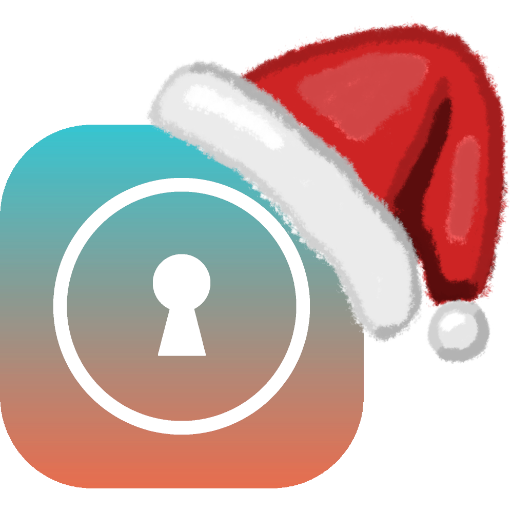
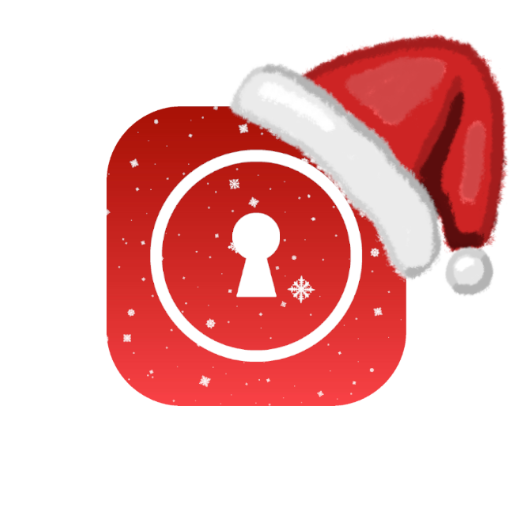
Nuevas festividades agregadas

diff --git a/src/renderer/homeRenderer.js b/src/renderer/homeRenderer.js
@@ -915,11 +915,40 @@ document.addEventListener("DOMContentLoaded", async () => {
     function checkHollydays() {
         const today = new Date();
         const day = today.getDate();
-        const month = today.getMonth() + 1; // Los meses van de 0 a 11
+        const month = today.getMonth() + 1;
 
-        // Icono navideño todo el mes de diciembre
-        if (month === 12) {
-            document.getElementById('app-icon').src = '../assets/ico/sanctuary-christmas.png';
+        // Icono de año nuevo el 1 de enero
+        if (day === 1 && month === 1) {
+            document.getElementById('hollydays-background').style.backgroundImage = 'url("../assets/ico/new-year-bg.png")';
+        }
+
+        // Icono del día del medio ambiente el 5 de junio
+        if (day === 5 && month === 6) {
+            document.getElementById('app-icon').src = '../assets/ico/sanctuary-earth.png';
+        }
+
+        // Icono de la independencia de México el 15 y 16 de septiembre
+        if (day === 15 || day === 16 && month === 9) {
+            document.getElementById('hollydays-background').style.backgroundImage = 'url("../assets/ico/mexican-independence-bg.png")';
+            document.getElementById('app-icon').src = '../assets/ico/sanctuary-mexico.png';
+        }
+
+        // Icono de halloween el 31 de octubre
+        if (day === 31 && month === 10) {
+            document.getElementById('hollydays-background').style.backgroundImage = 'url("../assets/ico/halloween-bg.png")';
+            document.getElementById('app-icon').src = '../assets/ico/sanctuary-purple.png';
+        }
+
+        // Icono de día de los muertos el 1 y 2 de noviembre
+        if (day === 1 || day === 2 && month === 11) {
+            document.getElementById('hollydays-background').style.backgroundImage = 'url("../assets/ico/day-of-the-dead-bg.png")';
+            document.getElementById('app-icon').src = '../assets/ico/sanctuary-purple-pink.png';
+        }
+
+        // Icono navideño desde el 20 de diciembre hasta el 31 de diciembre
+        if (month === 12 && day >= 20 && day <= 31) {
+            document.getElementById('hollydays-background').style.backgroundImage = 'url("../assets/ico/christmas-bg.png")';
+            document.getElementById('app-icon').src = '../assets/ico/sanctuary-christmas-snow.png';
         }
     }
 

diff --git a/src/renderer/components/modalAbout.js b/src/renderer/components/modalAbout.js
@@ -10,6 +10,9 @@ export function showAboutModal() {
         // Constantes y variables auxiliares
         const translations = await window.sanctuaryAPI.getTranslations('about');
         const constants = await window.sanctuaryAPI.getConstants();
+        const today = new Date();
+        const day = today.getDate();
+        const month = today.getMonth() + 1;
 
         // Elementos HTML ya existentes que se usarán
         const modal = document.getElementById('modal');
@@ -22,6 +25,7 @@ export function showAboutModal() {
         modalBody.innerHTML = await getModalHTML(translations, constants);
 
         // Elementos HTML insertados en el esqueleto
+        const appIcon = document.getElementById('app-icon-about');
         const myLinkBtn = document.getElementById('my-link-btn');
         const iconsLinkBtn = document.getElementById('icons-link-btn');
         const illustrationsLinkBtn = document.getElementById('illustrations-link-btn');
@@ -30,6 +34,30 @@ export function showAboutModal() {
         // Establecer valores iniciales
         modalContent.style.width = '460px';
         modalTitle.textContent = replaceKeysInText(translations['title'], { 'appName': constants.about.appName });
+
+        // Easter egg
+        // Icono del día del medio ambiente el 5 de junio
+        if (day === 5 && month === 6) {
+            appIcon.src = '../assets/ico/sanctuary-earth.png';
+        }
+        // Icono del día de independencia de México el 15 y 16 de septiembre
+        if (day === 15 || day === 16 && month === 9) {
+            appIcon.src = '../assets/ico/sanctuary-mexico.png';
+        }
+        // Icono de halloween el 31 de octubre
+        if (day === 31 && month === 10) {
+            appIcon.src = '../assets/ico/sanctuary-halloween.png';
+        }
+        // Icono del día de muertos el 1 y 2 de noviembre
+        if (day === 1 || day === 2 && month === 11) {
+            appIcon.src = '../assets/ico/sanctuary-purple-pink.png';
+        }
+        // Icono de navidad desde el 20 de diciembre hasta el 31 de diciembre
+        if (month === 12 && day >= 20 && day <= 31) {
+            appIcon.src = '../assets/ico/sanctuary-christmas.png';
+        }
+
+
         constants.wallpapers.forEach(element => {
             wallpapersAboutArea.appendChild(getWallpaperIconHTML(element.name, replaceKeysInText(translations['Wallpaper-info'], {
                 'author': element.author, 'platform': element.platform
@@ -82,7 +110,7 @@ async function getModalHTML(translations, constants) {
     return `
     <div class="vertical-flex big-spaced normal-padding">
         <div class="vertical-flex centered big-spaced top-bottom-big-margin">
-            <img src="../assets/ico/sanctuary.png" class="icon-25">
+            <img id="app-icon-about" src="../assets/ico/sanctuary.png" class="icon-25">
             <div class="vertical-flex centered minimal-spaced">
                 <div class="horizontal-flex minimal-spaced centered">
                     <img src="../assets/ico/Logo.svg" class="logo-icon">

diff --git a/src/views/home.html b/src/views/home.html
@@ -22,8 +22,8 @@
 <body>
     <div class="layout horizontal-flex">
         <!-- Sidebar -->
-        <aside id="sidebar" class="sidebar normal-padding vertical-flex centered spaced">
-            <div class="vertical-flex big-spaced">
+        <aside id="sidebar" class="sidebar vertical-flex centered spaced">
+            <div class="vertical-flex big-spaced normal-padding">
                 <div class="vertical-flex centered">
                     <button id="lock-btn" class="transparent-btn transparent-btn-padding minimal-rounded">
                         <img src="../assets/ico/feather/lock.svg" class="normal-icon darkmode-invert">
@@ -66,12 +66,15 @@
 
             </div>
 
-            <button id="app-btn" class="transparent-btn transparent-btn-padding minimal-rounded">
-                <img id="app-icon" src="../assets/ico/sanctuary.png" class="normal-icon">
-                <div id="update-container" class="update-container">
-                    <img id="update-img" src="../assets/ico/feather/arrow-down.svg" class="update-icon mini-icon-white">
-                </div>
-            </button>
+            <div id="hollydays-background" class="vertical-flex centered normal-padding background-image">
+                <button id="app-btn" class="transparent-btn transparent-btn-padding minimal-rounded">
+                    <img id="app-icon" src="../assets/ico/sanctuary.png" class="normal-icon">
+                    <div id="update-container" class="update-container">
+                        <img id="update-img" src="../assets/ico/feather/arrow-down.svg"
+                            class="update-icon mini-icon-white">
+                    </div>
+                </button>
+            </div>
         </aside>
 
         <!-- Contenido -->

diff --git a/src/styles/styles.css b/src/styles/styles.css
@@ -1230,6 +1230,11 @@ input:checked+.slider::before {
     display: flex;
 }
 
+.background-image {
+    background-size: cover;
+    background-position: center;
+}
+
 /* Clases para aplicar animaciones */
 .pulse-animation {
     animation: pulse 4s infinite;